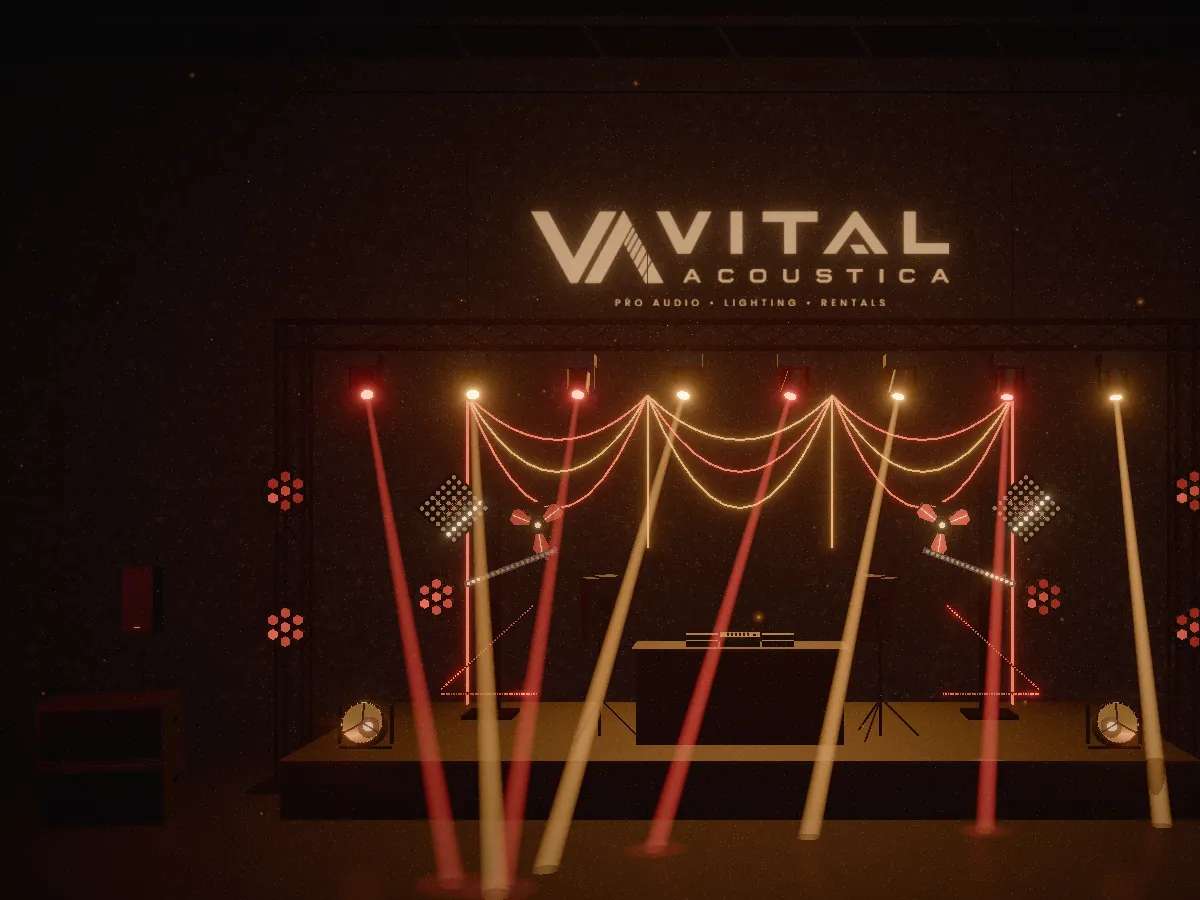
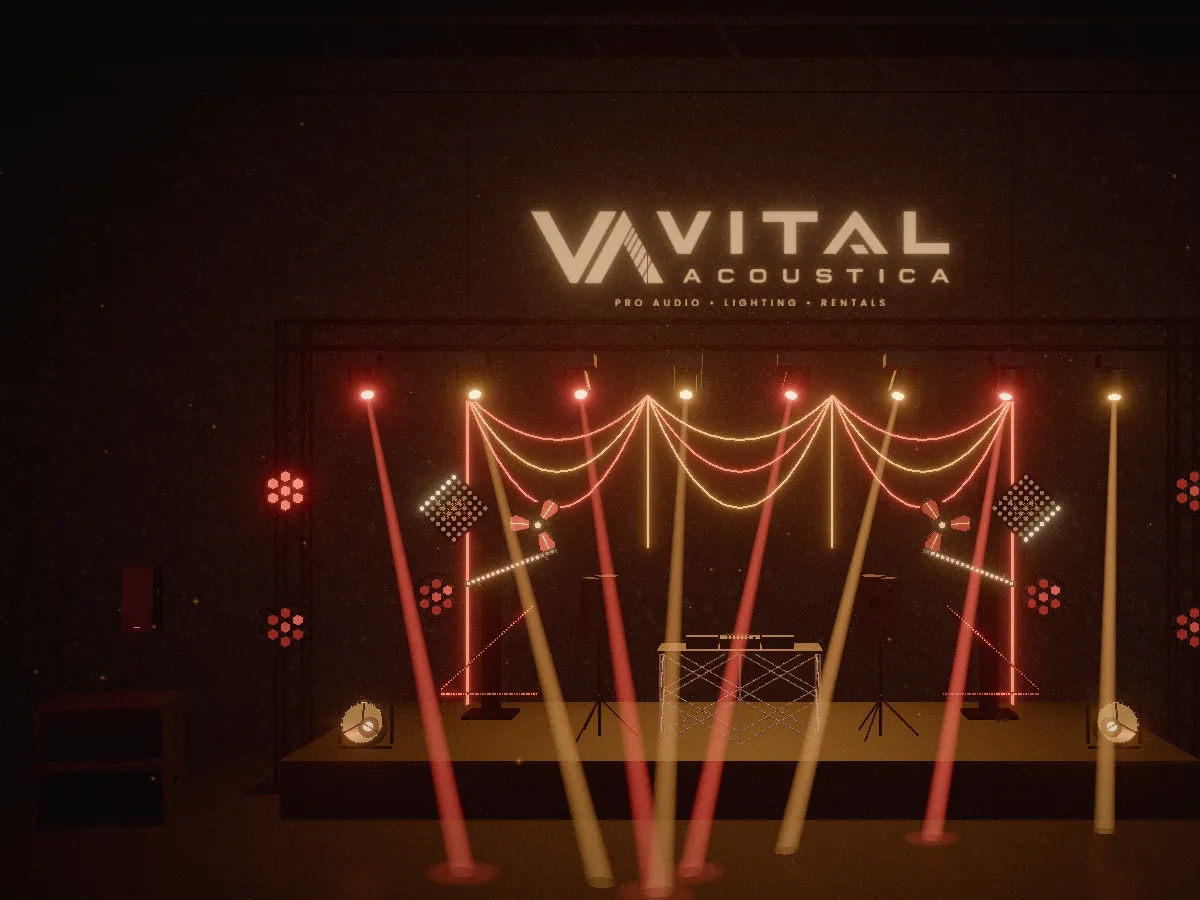
3D: DJ booth on a quickie table; a marker on every fixture
- The DJ booth is now a quickie table (silver scissor frame, black top)
  carrying the CDJ-3000X pair and DJM-V10-LF; the table component is shared
  with the front-of-house desk and sized per use
- Markers: one dot per fixture instead of one per product (43 in all: every
  sharpy, hex, Warcraft, matrix, fan, LED bar, speaker, neon swag, truss
  tower...). Clicking one flies the camera to that particular fixture and
  opens the item's card
- Homepage renders and the stage-model still re-rendered

Claude-Session: https://claude.ai/code/session_01Ee2gBuyq3PaqStBtgt5ZLp

diff --git a/src/three/StageScene.tsx b/src/three/StageScene.tsx
@@ -2,17 +2,17 @@ import { Environment, Lightformer, OrbitControls, Sparkles } from '@react-three/
 import { Canvas, useFrame, useThree } from '@react-three/fiber'
 import { Bloom, EffectComposer, Noise, ToneMapping, Vignette } from '@react-three/postprocessing'
 import { ToneMappingMode } from 'postprocessing'
-import { Suspense, useEffect, useRef } from 'react'
+import { Suspense, useEffect, useMemo, useRef } from 'react'
 import { Euler, MathUtils, Vector3 } from 'three'
 import type { OrbitControls as OrbitControlsImpl } from 'three-stdlib'
-import { rigGear, type RigId } from '../content/gear'
+import { type RigId } from '../content/gear'
 import { AMBER, RED } from './beat'
 import { controlAxes, droneInput, telemetry } from './drone'
 import { HexRetro, NeonSwags, WarcraftRetro, Wing } from './gear/Effects'
 import { Sharpies } from './gear/Sharpies'
 import { BoothMonitors, PAStack } from './gear/Speakers'
 import { GoalPostTruss } from './gear/Truss'
-import { EXPLORE_HOME, HOTSPOTS } from './hotspots'
+import { EXPLORE_HOME, rigSpots, spotView } from './hotspots'
 import { markerEls } from './markers'
 import { DECK, VENUE } from './layout'
 import { PALETTES, PaletteContext, type SceneTheme, usePalette } from './palette'
@@ -27,8 +27,12 @@ type SceneProps = {
   theme: SceneTheme
   mode: SceneMode
   focus: RigId | null
+  /** the particular fixture picked, when there are several of the item */
+  focusAt?: V3 | null
   haze: number
 }
+
+type V3 = [number, number, number]
 
 /** Advances the shared show clock once per frame, before any fixture reads it. */
 function ShowClock({ timeScale }: { timeScale: number }) {
@@ -93,16 +97,16 @@ const goalPos = new Vector3()
 const goalTarget = new Vector3()
 
 /** Orbit around the stage; when a piece of gear is picked, glide the camera to it. */
-function ExploreCamera({ focus }: { focus: RigId | null }) {
+function ExploreCamera({ focus, focusAt }: { focus: RigId | null; focusAt: V3 | null }) {
   const controls = useRef<OrbitControlsImpl>(null)
   const flying = useRef(true)
 
   useEffect(() => {
-    const spot = focus ? HOTSPOTS[focus] : null
+    const spot = focus ? spotView(focus, focusAt) : null
     goalPos.set(...(spot ? spot.camera : EXPLORE_HOME.camera))
     goalTarget.set(...(spot ? spot.at : EXPLORE_HOME.target))
     flying.current = true
-  }, [focus])
+  }, [focus, focusAt])
 
   useFrame(({ camera }, dt) => {
     const c = controls.current
@@ -133,12 +137,13 @@ function ExploreCamera({ focus }: { focus: RigId | null }) {
 const projected = new Vector3()
 
 /** Moves the DOM gear markers to their fixtures' on-screen positions. */
-function MarkerProjector() {
+function MarkerProjector({ small }: { small: boolean }) {
+  const spots = useMemo(() => rigSpots(small), [small])
   useFrame(({ camera, size }) => {
-    for (const g of rigGear) {
-      const el = markerEls.get(g.id)
+    for (const s of spots) {
+      const el = markerEls.get(s.key)
       if (!el) continue
-      projected.set(...HOTSPOTS[g.id].at).project(camera)
+      projected.set(s.at[0], s.at[1], s.at[2]).project(camera)
       const visible = projected.z < 1 && Math.abs(projected.x) < 1.1 && Math.abs(projected.y) < 1.1
       el.style.visibility = visible ? 'visible' : 'hidden'
       if (visible) el.style.transform = `translate(${((projected.x + 1) / 2) * size.width}px, ${((1 - projected.y) / 2) * size.height}px)`
@@ -188,7 +193,7 @@ function Haze({ small, theme, haze }: { small: boolean; theme: SceneTheme; haze:
   )
 }
 
-function Scene({ small, reducedMotion, theme, mode, focus, haze }: SceneProps) {
+function Scene({ small, reducedMotion, theme, mode, focus, focusAt = null, haze }: SceneProps) {
   const p = PALETTES[theme]
   return (
     <PaletteContext.Provider value={p}>
@@ -228,8 +233,8 @@ function Scene({ small, reducedMotion, theme, mode, focus, haze }: SceneProps) {
       {mode === 'drone' && <DroneCamera />}
       {mode === 'explore' && (
         <>
-          <ExploreCamera focus={focus} />
-          <MarkerProjector />
+          <ExploreCamera focus={focus} focusAt={focusAt} />
+          <MarkerProjector small={small} />
         </>
       )}
 

diff --git a/src/three/Venue.tsx b/src/three/Venue.tsx
@@ -153,16 +153,11 @@ function StageDeck() {
           <boxGeometry args={[0.7, 0.2 + i * 0.2, 0.8]} />
         </mesh>
       ))}
-      {/* DJ booth */}
+      {/* DJ booth: the Pioneer set on a quickie table */}
       <group position={[0, height, -0.2]}>
-        <mesh material={skirtMat} position={[0, 0.5, 0]}>
-          <boxGeometry args={[2.2, 1, 0.75]} />
-        </mesh>
-        <mesh material={deckMat} position={[0, 1.01, 0]}>
-          <boxGeometry args={[2.3, 0.03, 0.8]} />
-        </mesh>
+        <QuickieTable halfW={0.85} halfD={0.38} top={1.0} />
         {/* two CDJ-3000X and a DJM-V10-LF */}
-        <group position={[0, 1.025, 0]}>
+        <group position={[0, 1.0, 0]}>
           <DJSet />
         </group>
       </group>
@@ -216,17 +211,18 @@ function Strut({ a, b, r = 0.008 }: { a: [number, number, number]; b: [number, n
   )
 }
 
-/** Pop-up quickie table as in the product photo: posts at the corners and mid-points, X-braced in two tiers. */
-function QuickieTable() {
-  const W = 0.8
-  const D = 0.35
-  const H = 0.98
-  const xs = [-W, 0, W]
-  const zs = [-D, D]
-  const tiers = [0.3, 0.64, H]
+/**
+ * Pop-up quickie table as in the product photo: posts at the corners and mid-points,
+ * X-braced in two tiers, black top. `top` is the height of the top surface.
+ */
+function QuickieTable({ halfW = 0.8, halfD = 0.35, top = 0.72 }: { halfW?: number; halfD?: number; top?: number }) {
+  const frameTop = top - 0.03
+  const xs = [-halfW, 0, halfW]
+  const zs = [-halfD, halfD]
+  const tiers = [0, frameTop / 2, frameTop]
   const posts = xs.flatMap((x) => zs.map((z) => [x, z] as const))
   const struts: [[number, number, number], [number, number, number]][] = []
-  // front and back faces: X between neighbouring posts, per tier
+  // front and back faces: an X between neighbouring posts on each tier
   for (const z of zs)
     for (let k = 0; k < xs.length - 1; k++)
       for (let t = 0; t < tiers.length - 1; t++) {
@@ -240,15 +236,15 @@ function QuickieTable() {
       struts.push([[x, tiers[t], zs[1]], [x, tiers[t + 1], zs[0]]])
     }
   return (
-    <group position={[0, 0.3, -0.3]}>
-      <mesh material={topMat} position={[0, H - 0.27, 0]}>
-        <boxGeometry args={[W * 2 + 0.06, 0.03, D * 2 + 0.06]} />
+    <group>
+      <mesh material={topMat} position={[0, top - 0.015, 0]}>
+        <boxGeometry args={[halfW * 2 + 0.06, 0.03, halfD * 2 + 0.06]} />
       </mesh>
       {posts.map(([x, z]) => (
-        <Strut key={`${x}${z}`} a={[x, 0, z]} b={[x, H - 0.285, z]} r={0.01} />
+        <Strut key={`${x}${z}`} a={[x, 0, z]} b={[x, frameTop, z]} r={0.01} />
       ))}
-      {struts.map(([a, b2], k) => (
-        <Strut key={k} a={[a[0], a[1] - 0.3, a[2]]} b={[b2[0], b2[1] - 0.3, b2[2]]} />
+      {struts.map(([a, b], k) => (
+        <Strut key={k} a={a} b={b} />
       ))}
     </group>
   )
@@ -262,7 +258,9 @@ function FOH() {
         <boxGeometry args={[3.2, 0.3, 2.2]} />
       </mesh>
       {/* quickie table: black top on a silver scissor frame */}
-      <QuickieTable />
+      <group position={[0, 0.3, -0.3]}>
+        <QuickieTable top={0.72} />
+      </group>
       <group position={[0, 1.02, -0.25]}>
         <DM3 />
       </group>

diff --git a/src/components/ExploreUi.tsx b/src/components/ExploreUi.tsx
@@ -1,7 +1,8 @@
-import { useEffect, useState } from 'react'
+import { useEffect, useMemo, useState } from 'react'
 import { fullName, gearById, rigGear, type RigId } from '../content/gear'
 import { navigate } from '../router'
 import { gearImg } from './gearImg'
+import { rigSpots } from '../three/hotspots'
 import { registerMarker } from '../three/markers'
 import { LOOK_NAMES, REFERENCE_BPM, resetShow, show, type ColourMode } from '../three/show'
 
@@ -15,14 +16,17 @@ const COLOURS: { id: ColourMode; label: string }[] = [
 
 type Props = {
   focus: RigId | null
-  onFocus: (id: RigId | null) => void
+  onFocus: (id: RigId | null, at?: [number, number, number]) => void
   onExit: () => void
   haze: number
   onHaze: (v: number) => void
+  small: boolean
 }
 
 /** Overlay for explore mode: gear list, spec card and a compact lighting desk. */
-export function ExploreUi({ focus, onFocus, onExit, haze, onHaze }: Props) {
+export function ExploreUi({ focus, onFocus, onExit, haze, onHaze, small }: Props) {
+  // a marker on every fixture in the rig, not one per product
+  const spots = useMemo(() => rigSpots(small), [small])
   const [look, setLook] = useState<number | null>(show.look)
   const [colour, setColour] = useState<ColourMode>(show.colour)
   const [bpm, setBpm] = useState(show.bpm)
@@ -59,19 +63,22 @@ export function ExploreUi({ focus, onFocus, onExit, haze, onHaze }: Props) {
       </div>
 
       <div className="stage-markers">
-        {rigGear.map((g) => (
-          <button
-            key={g.id}
-            ref={(el) => registerMarker(g.id, el)}
-            className={`marker stage-marker ${focus === g.id ? 'is-active' : ''}`}
-            onClick={() => onFocus(g.id)}
-            aria-label={`${fullName(g)}: show details`}
-            tabIndex={-1}
-          >
-            <span className="marker__dot" />
-            <span className="marker__label">{g.name}</span>
-          </button>
-        ))}
+        {spots.map((s) => {
+          const g = gearById[s.id]
+          return (
+            <button
+              key={s.key}
+              ref={(el) => registerMarker(s.key, el)}
+              className={`marker stage-marker ${focus === s.id ? 'is-active' : ''}`}
+              onClick={() => onFocus(s.id, s.at)}
+              aria-label={`${fullName(g)}: show details`}
+              tabIndex={-1}
+            >
+              <span className="marker__dot" />
+              <span className="marker__label">{g.name}</span>
+            </button>
+          )
+        })}
       </div>
 
       <nav className="explore__list" aria-label="Gear">

diff --git a/src/three/hotspots.ts b/src/three/hotspots.ts
@@ -23,4 +23,65 @@ export const HOTSPOTS: Record<RigId, { at: V3; camera: V3 }> = {
   truss: { at: [-5, 3.6, -0.6], camera: [-2.8, 3.1, 4.2] },
 }
 
+// Every other instance of each item in the model, so each fixture gets its own marker.
+// (Wing fixtures mirror across the centre line; sharpies are spread along the front truss.)
+const EXTRA: Partial<Record<RigId, V3[]>> = {
+  v10p: [[6.53, 2.12, -0.23]],
+  b22: [[-6.3, 0.75, 1.4]],
+  art915: [[1.55, 1.96, -0.35]],
+  cdj: [[0.41, 1.75, -0.2]],
+  matrix: [[3.4, 3.1, -1.45]],
+  trefoil: [[-2.4, 2.9, -1.45]],
+  hex: [
+    [-3.6, 2.05, -1.45],
+    [-5, 1.8, -0.36],
+    [-5, 3.3, -0.36],
+    [5, 1.8, -0.36],
+    [5, 3.3, -0.36],
+  ],
+  warcraft: [[3.9, 0.92, 0.55]],
+  dotbar: [[2.75, 2.4, -1.45]],
+  pixelbar: [
+    [-3.0, 1.45, -1.45],
+    [2.98, 0.9, -1.45],
+    [-2.98, 0.9, -1.45],
+  ],
+  rope: [
+    [0, 3.55, -2.25],
+    [2.3, 3.55, -2.25],
+  ],
+  truss: [[5, 3.6, -0.6]],
+  table: [[0.92, 1.3, -0.2]],
+}
+
+export type Spot = { id: RigId; key: string; at: V3 }
+
+const SHARPY_SPAN = 8.4
+
+/** Every marker position in the model: one per fixture, not one per product. */
+export function rigSpots(small: boolean): Spot[] {
+  const out: Spot[] = []
+  for (const id of Object.keys(HOTSPOTS) as RigId[]) {
+    if (id === 'sharpy') {
+      const n = small ? 6 : 8
+      for (let i = 0; i < n; i++) out.push({ id, key: `${id}:${i}`, at: [-SHARPY_SPAN / 2 + (SHARPY_SPAN * i) / (n - 1), 4.45, -0.6] })
+      continue
+    }
+    out.push({ id, key: `${id}:0`, at: HOTSPOTS[id].at })
+    EXTRA[id]?.forEach((at, i) => out.push({ id, key: `${id}:${i + 1}`, at }))
+  }
+  return out
+}
+
+/** Camera framing for one instance: the item's usual view, moved to that fixture (mirrored across the centre line). */
+export function spotView(id: RigId, at: V3 | null): { at: V3; camera: V3 } {
+  const base = HOTSPOTS[id]
+  if (!at) return base
+  const flip = at[0] * base.at[0] < 0 ? -1 : 1
+  return {
+    at,
+    camera: [at[0] + (base.camera[0] - base.at[0]) * flip, at[1] + base.camera[1] - base.at[1], at[2] + base.camera[2] - base.at[2]],
+  }
+}
+
 export const EXPLORE_HOME = { camera: [0, 3.0, 11] as V3, target: [0, 2.0, -0.5] as V3 }

diff --git a/src/components/StageModel.tsx b/src/components/StageModel.tsx
@@ -53,6 +53,12 @@ export function StageModelLauncher({ caption }: { caption?: string }) {
 export function StageModelOverlay() {
   const [req, setReq] = useState<StageRequest | null>(null)
   const [focus, setFocus] = useState<RigId | null>(null)
+  // which fixture was picked when the item appears more than once in the rig
+  const [focusAt, setFocusAt] = useState<[number, number, number] | null>(null)
+  const pick = useCallback((id: RigId | null, at?: [number, number, number]) => {
+    setFocus(id)
+    setFocusAt(at ?? null)
+  }, [])
   const [haze, setHaze] = useState(show.haze)
   const [failed, setFailed] = useState(false)
   const small = useMediaQuery('(max-width: 760px)')
@@ -68,6 +74,7 @@ export function StageModelOverlay() {
       setFailed(false)
       setReq(detail)
       setFocus(detail.focus)
+      setFocusAt(null)
     }
     window.addEventListener(STAGE_EVENT, open)
     return () => window.removeEventListener(STAGE_EVENT, open)
@@ -112,6 +119,7 @@ export function StageModelOverlay() {
               theme={theme}
               mode={req.mode}
               focus={focus}
+              focusAt={focusAt}
               haze={haze}
             />
           </Suspense>
@@ -126,7 +134,7 @@ export function StageModelOverlay() {
       {req.mode === 'drone' ? (
         <DroneHud onExit={close} touch={touch} />
       ) : (
-        <ExploreUi focus={focus} onFocus={setFocus} onExit={close} haze={haze} onHaze={setHaze} />
+        <ExploreUi focus={focus} onFocus={pick} onExit={close} haze={haze} onHaze={setHaze} small={small} />
       )}
     </div>
   )

diff --git a/src/three/markers.ts b/src/three/markers.ts
@@ -1,11 +1,9 @@
-import type { RigId } from '../content/gear'
-
-// Gear markers in the stage model are plain DOM buttons (rendered by ExploreUi).
+// Gear markers in the stage model are plain DOM buttons (rendered by ExploreUi), one per fixture.
 // The 3D scene projects each fixture's position to the screen every frame and
 // moves the registered element — no nested React roots inside the canvas.
-export const markerEls = new Map<RigId, HTMLElement>()
+export const markerEls = new Map<string, HTMLElement>()
 
-export function registerMarker(id: RigId, el: HTMLElement | null) {
-  if (el) markerEls.set(id, el)
-  else markerEls.delete(id)
+export function registerMarker(key: string, el: HTMLElement | null) {
+  if (el) markerEls.set(key, el)
+  else markerEls.delete(key)
 }
